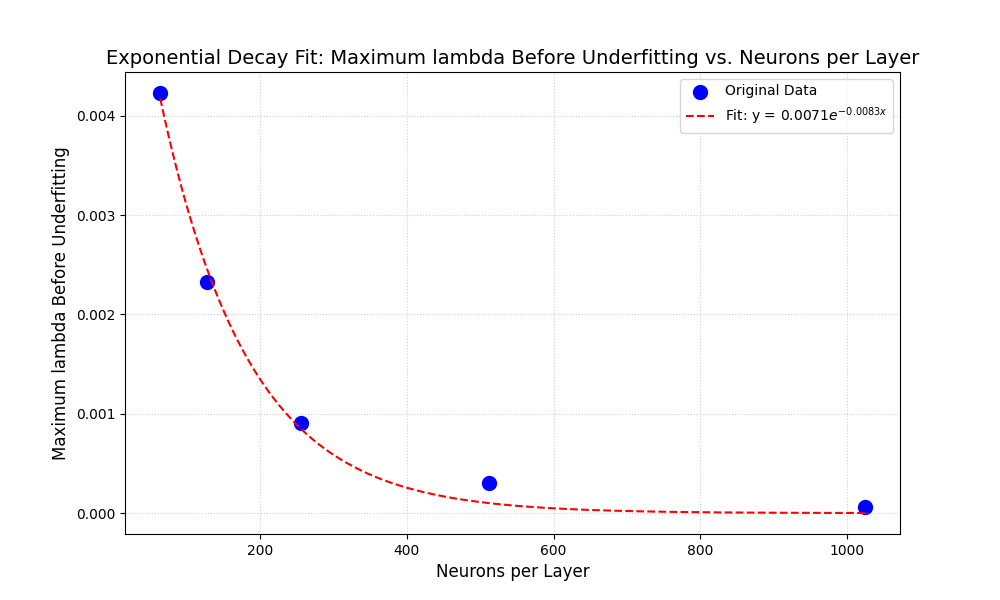
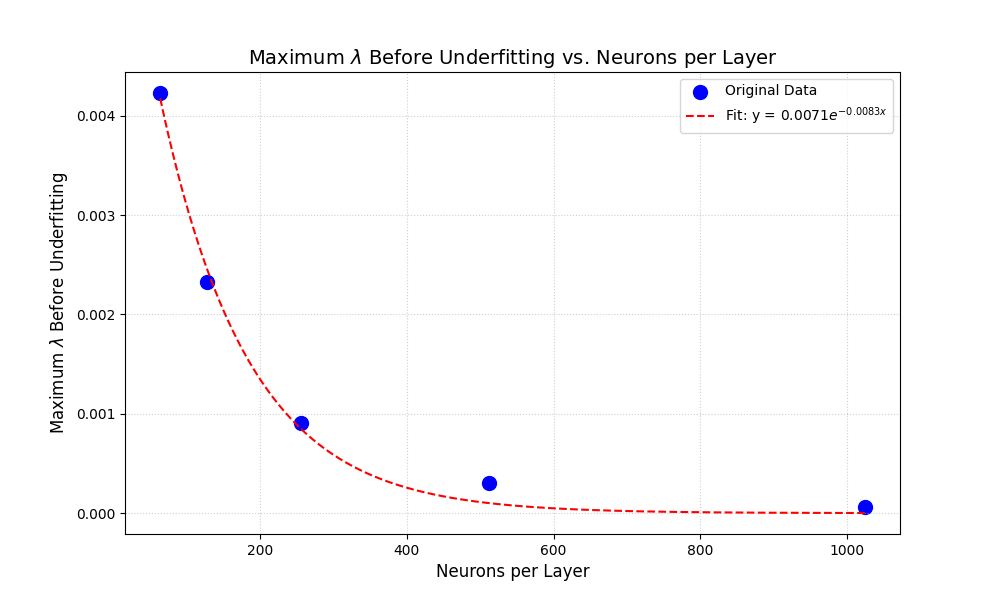
reformatted graph

Changed region(s): [[0.093, 0.06, 0.93, 0.12], [0.031, 0.24, 0.062, 0.78]]

diff --git a/nonLinear_regression.py b/nonLinear_regression.py
@@ -21,9 +21,9 @@ plt.scatter(X, Y, label='Original Data', color='blue', marker='o', s=100)
 
 plt.plot(X_fit, Y_fit, label=f'Fit: y = {A0_fit:.4f}$e^{{-{k_fit:.4f}x}}$', color='red', linestyle='--')
 
-plt.title('Exponential Decay Fit: Maximum lambda Before Underfitting vs. Neurons per Layer', fontsize=14)
+plt.title('Maximum $\lambda$ Before Underfitting vs. Neurons per Layer', fontsize=14)
 plt.xlabel('Neurons per Layer', fontsize=12)
-plt.ylabel('Maximum lambda Before Underfitting', fontsize=12)
+plt.ylabel('Maximum $\lambda$ Before Underfitting', fontsize=12)
 
 plt.legend(fontsize=10)
 plt.grid(True, linestyle=':', alpha=0.6)
